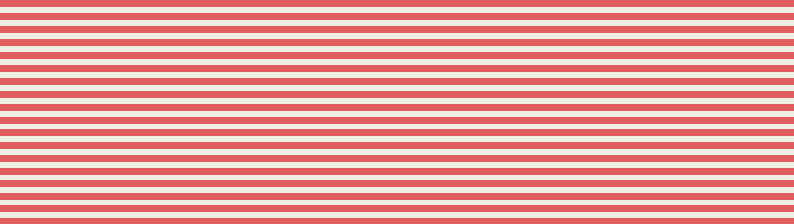
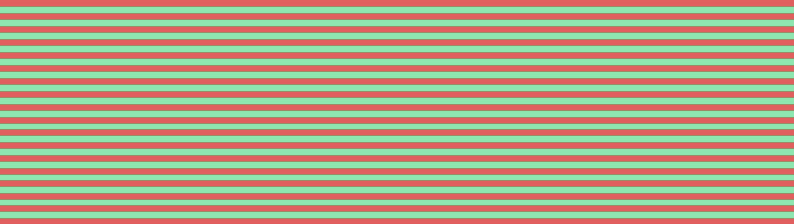
Some flow / rolling distortion tests

diff --git a/pieces/singletons/rolling_distortion.py b/pieces/singletons/rolling_distortion.py
@@ -161,15 +161,16 @@ def main(run=True) :
     #config.img = loadImage('./assets/imgs/miscl/lena.jpg')
     #config.img = loadImage('./assets/imgs/bgs/water2.jpg')
     config.img = loadImage('./assets/imgs/bgs/stripes.jpg')
+    config.img = loadImage('./assets/imgs/bgs/stripes2.jpg')
     config.xPos = 0
     config.yPos = 0
-    config.scrollSpeed = 2.0
+    config.scrollSpeed = .150
     config.xNoiseFactor = 10
     config.yNoiseFactor = 1
 
-    config.period = 12.0
+    config.period = 5.0
     config.rads = math.pi / config.canvasWidth * config.period
     config.amplitude = 20.0
-    config.gridSpace = 100
+    config.gridSpace = 10
 
 
